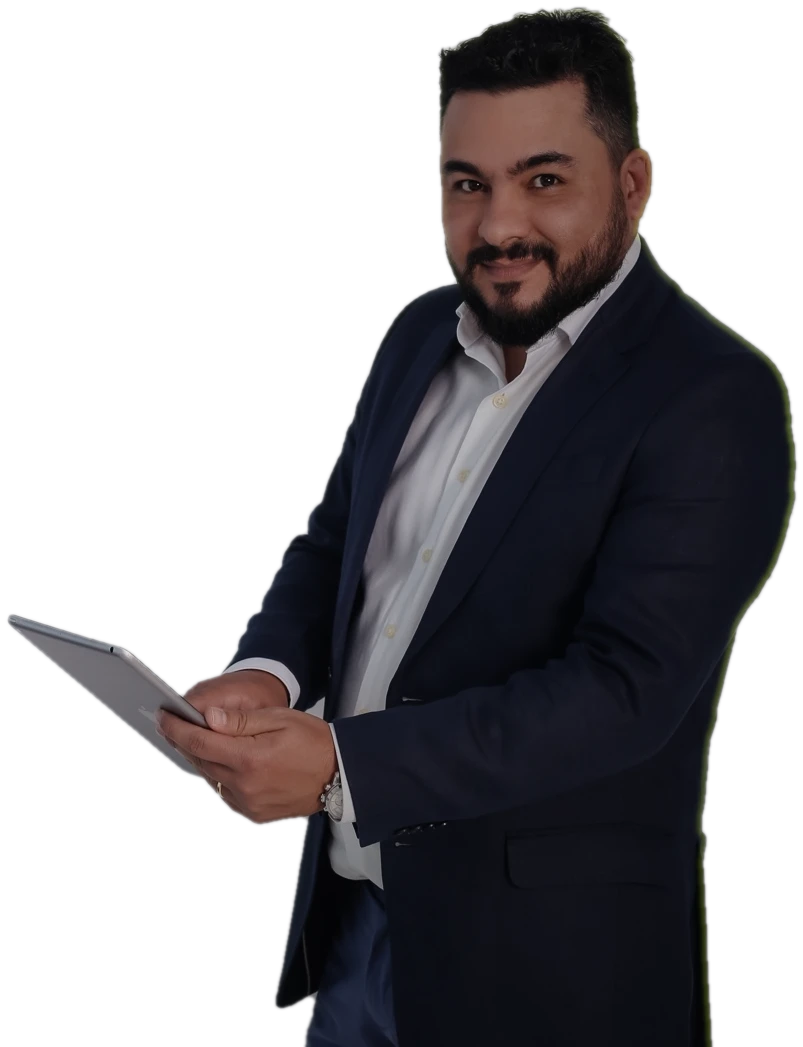
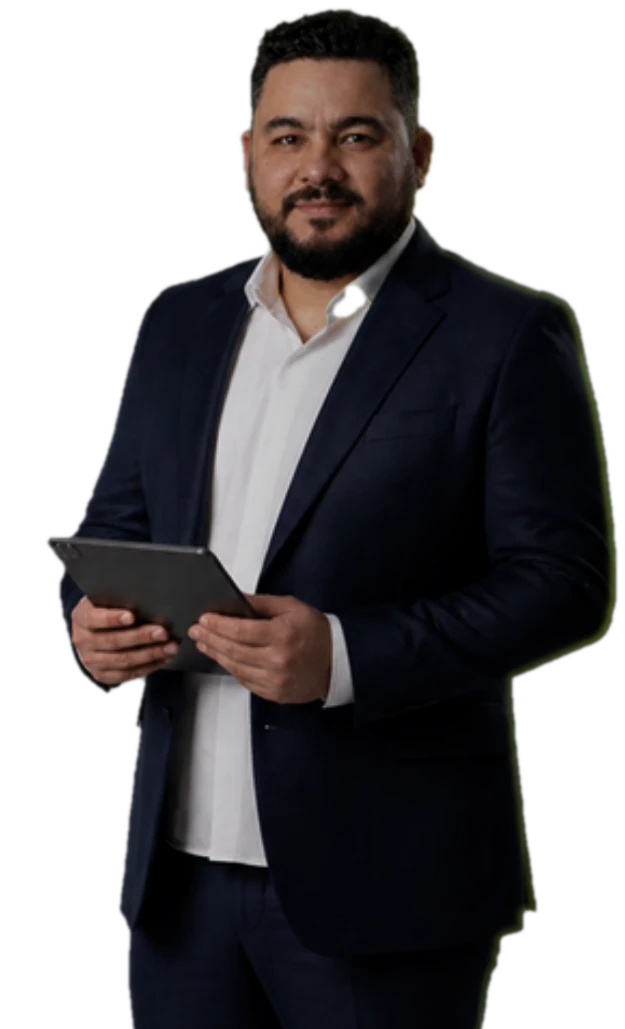
Replace founder photos with high-resolution studio portraits
New 2000px portraits of the founder (blazer and T-shirt pairs aligned
by the eyes for the hero reveal) and waist-up cutouts on transparent
backgrounds, with the same low-key grading used across the site.

Claude-Session: https://claude.ai/code/session_01NoKGcpvfBkv2zxayL5gT9f

diff --git a/consultoria-site/src/config/site.ts b/consultoria-site/src/config/site.ts
@@ -47,7 +47,7 @@ export const media = {
    * `hero` é o recorte de blazer (PNG/WebP com transparência) sobre o fundo escuro do site;
    * `heroReveal` é a camada de camiseta, revelada pela máscara que segue o cursor.
    */
-  hero: { src: "/media/hero-blazer.webp", alt: "Retrato do fundador, de blazer" } as MediaSlot,
+  hero: { src: "/media/hero-blazer.jpg", alt: "Retrato do fundador, de blazer" } as MediaSlot,
   heroReveal: "/media/hero-reveal.jpg",
   /** Recortes da pessoa (fundo transparente, tratamento escuro). */
   cutFront: { src: "/media/cut-blazer-front.webp", alt: "Fundador de blazer, de frente" } as MediaSlot,
